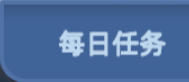
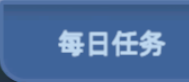
fix(vision): re-register the daily tab from today's frames -- the client moved the strip
The knowledge base's BTN_DAILY_TAB_TASKS carried roi_norm.x_norm = 0.668056, measured on
2026-09-16, and the client has since moved the tab strip left.  Searching the whole frame
with the runtime's own matcher:

  2026-09-16 parent frame   x_norm 0.6681  score 1.0000   <- what the manifest recorded
  2026-10-06 live frame #1  x_norm 0.5069  score 0.9895
  2026-10-06 live frame #2  x_norm 0.5069  score 0.9896

The old window (0.668-0.931) does not overlap the true one (0.507-0.769), so the template
could never match: vision never returned Page.GROWTH_TASKS, SELECT_DAILY_TAB (which is only
ready on that page) never became ready -- 0 rows in the ledger, ever -- the tab was never
switched, and every daily skill read an empty panel (tab=None, rows=0).

Fixed at the source rather than by editing a number: register_daily_tab_template.py now
registers from a 2026-10-06 pair instead of the 2026-09-16 pair, so the correction is
reproducible and the next registration cannot revert it.  Its BOX moves from
(481,1091,670,1173) to (365,1091,554,1173): same 223 px pill, same 189 px crop width, and
still stopping clear of the claimable badge -- which on today's selected frame measures
x 564..582, so the box ends at 554 exactly as the old one ended 34 px before its badge.

Verified with SemanticROIVision.find after the re-registration, on frames captured today:

  panel on 成长任务   BTN_DAILY_TAB_TASKS d=0   TAB_DAILY_TASKS_SELECTED None
[…]

diff --git a/tools/register_daily_tab_template.py b/tools/register_daily_tab_template.py
@@ -41,8 +41,18 @@ MANIFEST = ROOT / "dataset" / "candidate" / "template_manifest.json"
 OUT_DIR = ROOT / "dataset" / "candidate" / "daily_tab_20260916"
 ARCHIVE = ROOT / "dataset" / "truth_audit" / "daily_tab_20260916"
 
-BEFORE = ROOT / "dataset" / "truth_audit" / "daily_tasks_tab_20260916" / "01_before_20260916_134609.png"
-AFTER = ROOT / "dataset" / "truth_audit" / "daily_tasks_tab_20260916" / "02_after_tap_20260916_134609.png"
+#: 2026-10-06: these two frames replaced the 2026-09-16 pair, because the client moved the
+#: tab strip.  Measured with the runtime's own matcher (``SemanticROIVision.find``) by
+#: searching the whole frame: on 2026-09-16 this template sat at x_norm 0.6681 (score 1.0,
+#: the value the manifest recorded); on 2026-10-06 it sits at **0.5069** (0.9895 / 0.9896 on
+#: two independent live panel frames).  The recorded ROI was 0.668056 and the old window
+#: (0.668-0.931) did not overlap the true one (0.507-0.769) at all, so the entry could never
+#: match -> ``vision`` never returned ``Page.GROWTH_TASKS`` -> ``SELECT_DAILY_TAB`` could never
+#: become ready (0 rows in the ledger) -> the tab was never switched -> the daily skills read
+#: an empty panel.  Re-registering from these frames is what makes the correction reproducible
+#: instead of a hand-edited number that the next registration would revert.
+BEFORE = ROOT / "dataset" / "truth_audit" / "daily_tasks_tab_20261006" / "01_before_unselected.png"
+AFTER = ROOT / "dataset" / "truth_audit" / "daily_tasks_tab_20261006" / "02_after_selected.png"
 
 # Measured on the 720x1280 live frames: the 每日任务 pill spans x 481..704, y 1091..1173.
 # The label inside it (OCR) is x 538..649, y 1117..1154, so the tap centre lands on the text.
@@ -54,7 +64,12 @@ AFTER = ROOT / "dataset" / "truth_audit" / "daily_tasks_tab_20260916" / "02_afte
 # exactly those frames where the badge was absent.  This is the same defect that froze
 # `BTN_OPEN_DAILY` for eight days (a badge appearing changes the hash), so the corner is
 # excluded here and one record covers both badge states.
-BOX = (481, 1091, 670, 1173)
+#
+# 2026-10-06: the pill now spans x 365..588 (the same 223 px wide, moved left by 116), and the
+# claimable badge on the selected frame measures x 564..582 -- so the box stops at 554, which
+# keeps the same 34 px of clearance the 2026-09-16 box had (it stopped at 670 of a pill ending
+# at 704).  Width stays 189.
+BOX = (365, 1091, 554, 1173)
 
 RECORDS = (
     {
